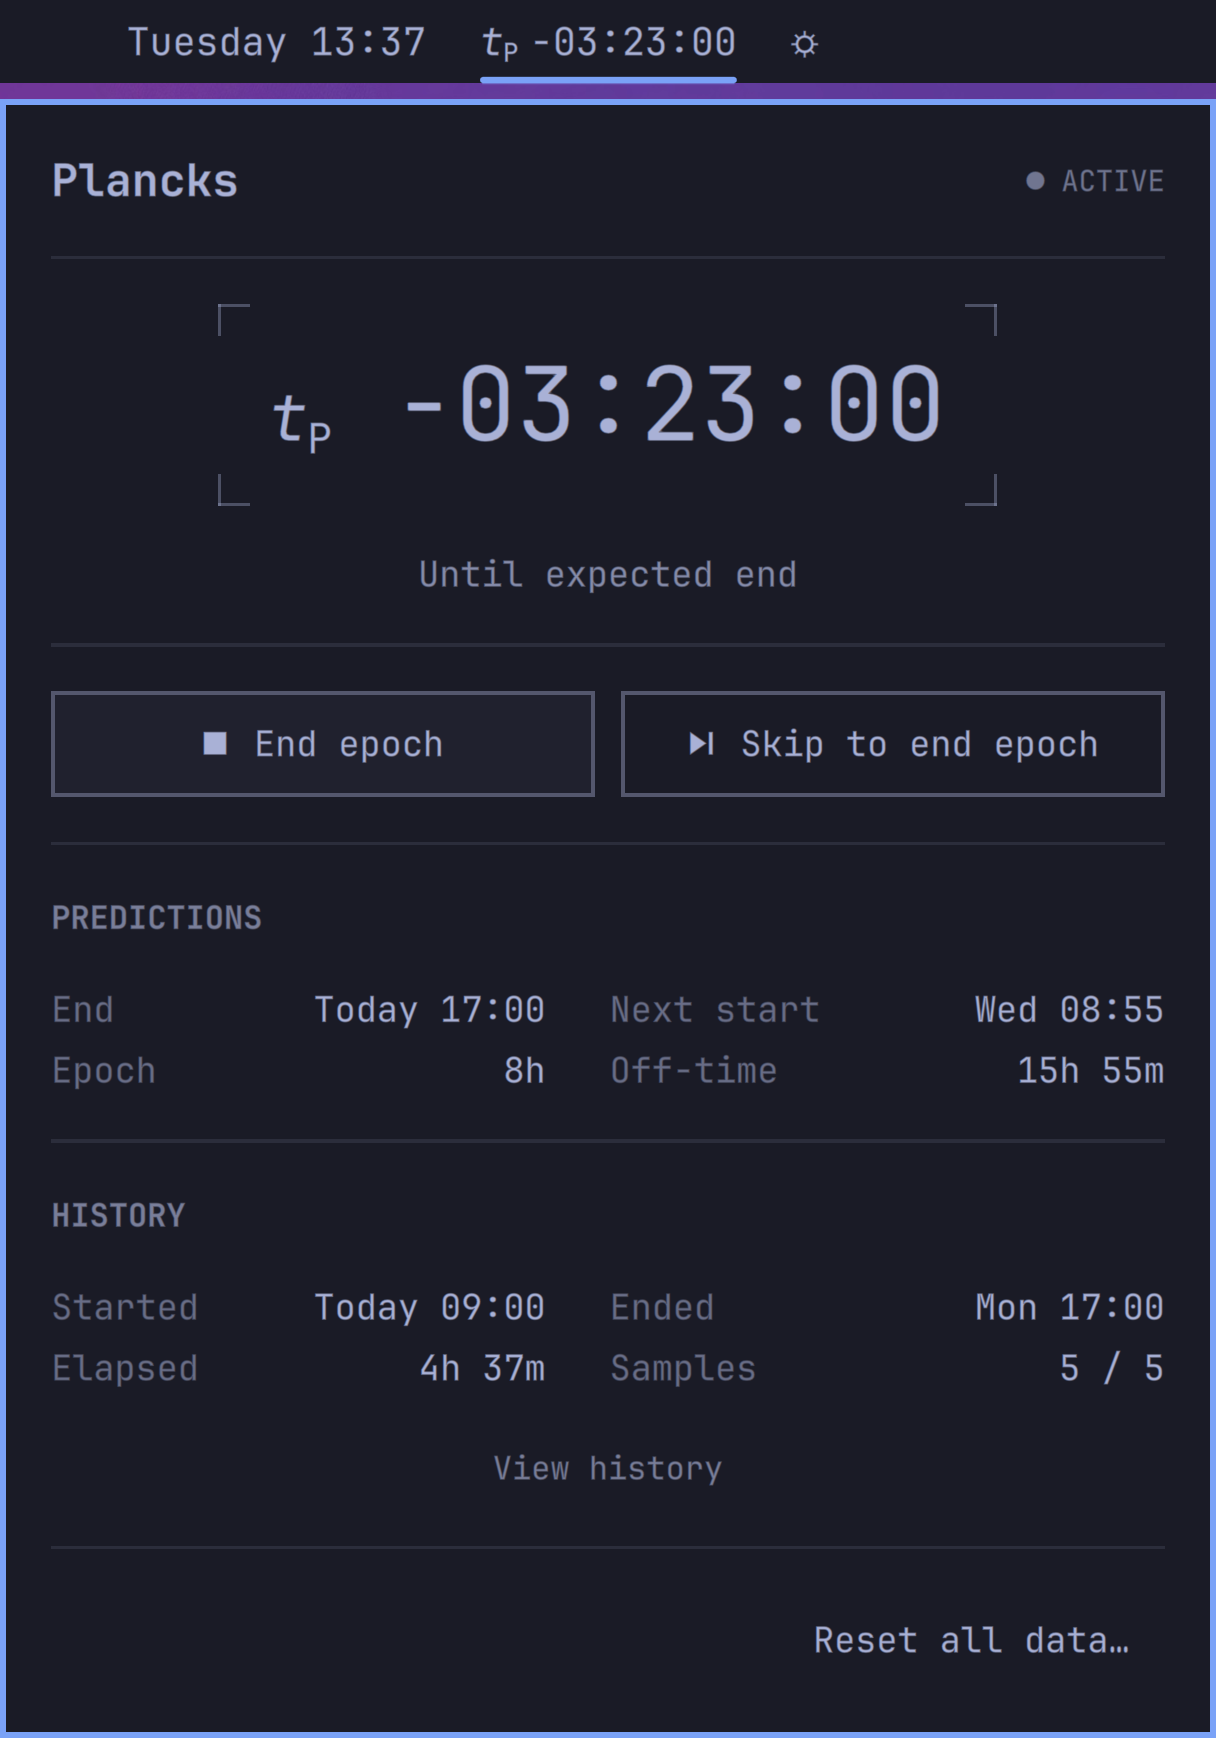
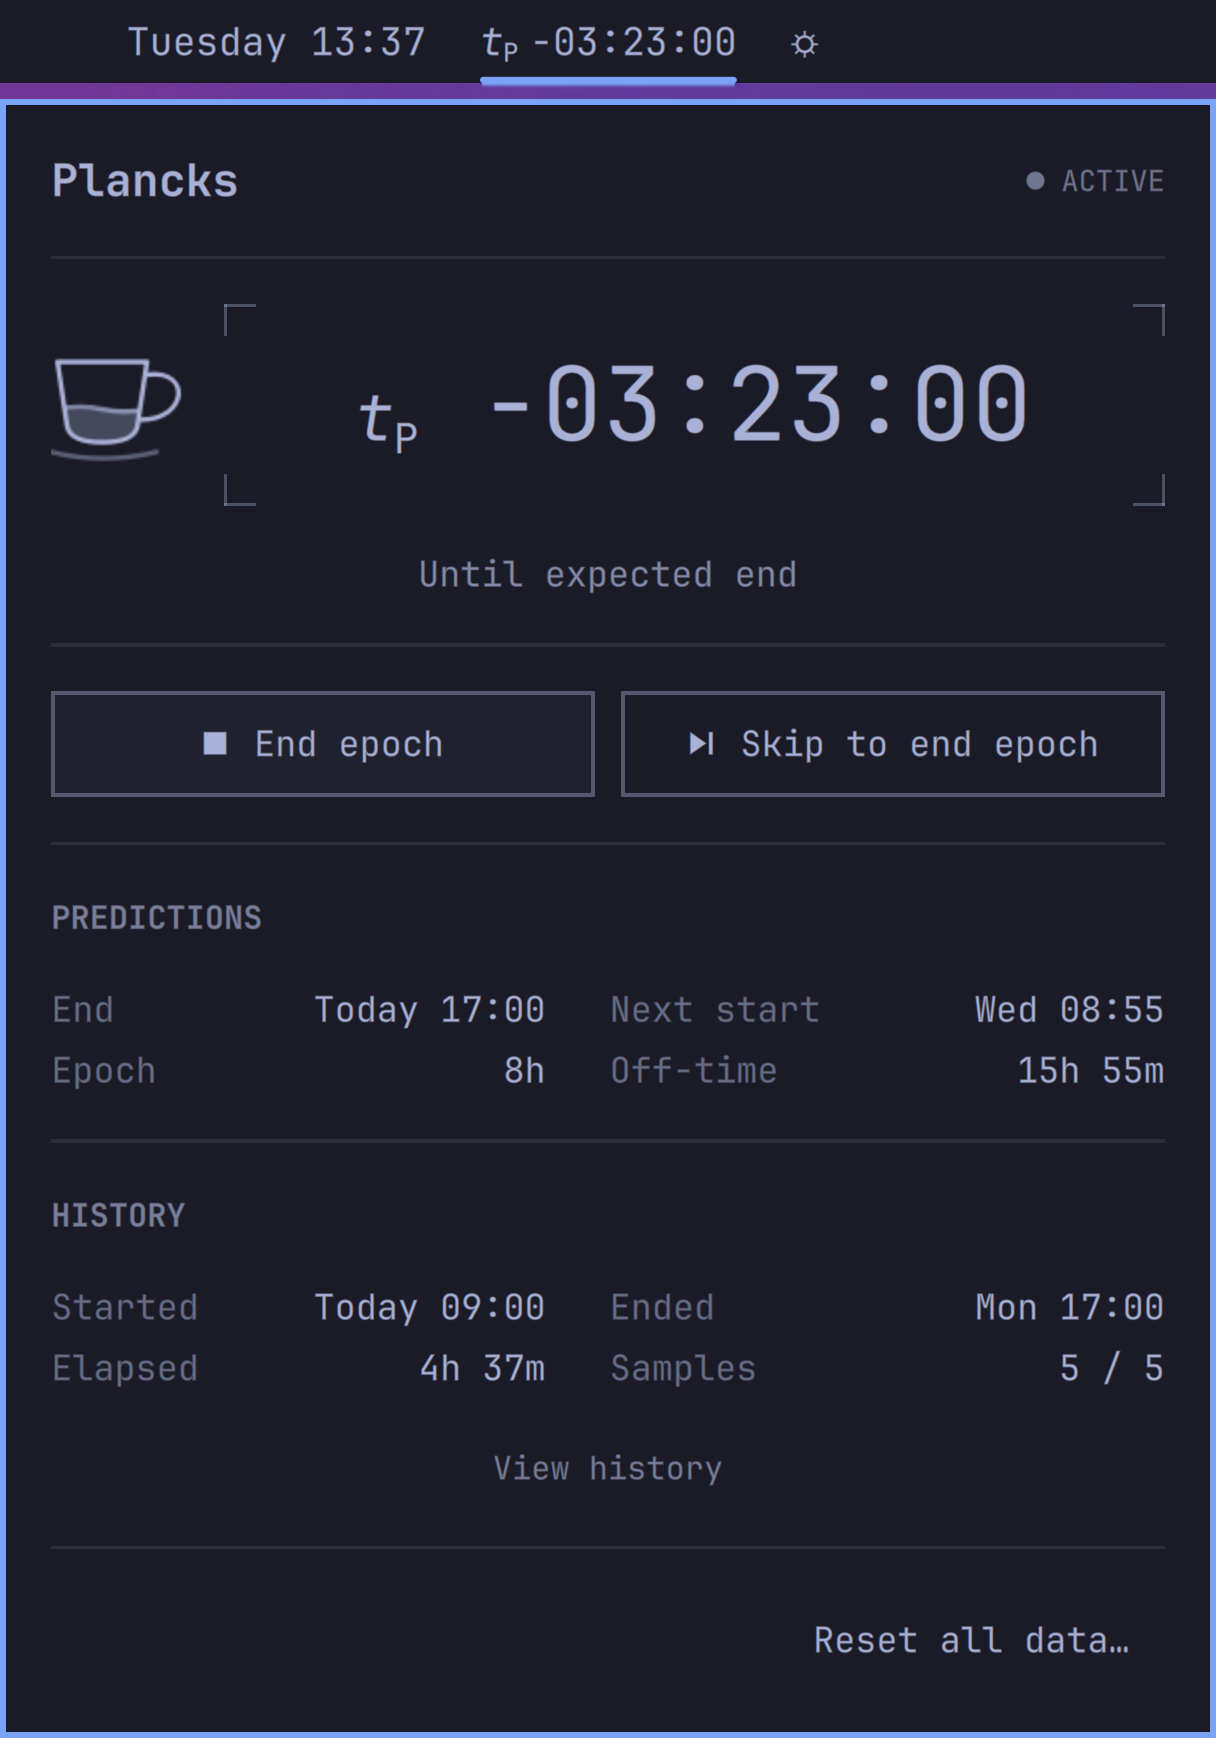
add dynamic cup next to panel timer

diff --git a/EpochPanel.qml b/EpochPanel.qml
@@ -224,11 +224,15 @@ Panel {
             visible: !root.confirmingReset && !root.showingHistory
             Item {
               width: parent.width
-              height: timerText.implicitHeight + Style.space(20)
+              height: Math.max(coffee.height, timerText.implicitHeight + Style.space(20))
+              Accessible.role: Accessible.StaticText
+              Accessible.name: "Plancks. " + root.epoch.timer + ". " + root.epoch.status
               Item {
                 id: timerFrame
-                anchors.centerIn: parent
-                width: Math.min(parent.width, timerText.implicitWidth + Style.space(32))
+                // Allow for the drawing's inset, with about 16 px after the handle.
+                readonly property real leftInset: coffee.width - Style.space(4)
+                x: leftInset
+                width: Math.max(0, parent.width - leftInset)
                 height: parent.height
                 Repeater {
                   model: 4
@@ -257,11 +261,135 @@ Panel {
                   }
                 }
               }
+              Item {
+                id: coffee
+                objectName: "plancks_coffee"
+                width: Style.space(58)
+                height: Style.space(54)
+                anchors.left: parent.left
+                anchors.leftMargin: -Style.space(5)
+                anchors.verticalCenter: parent.verticalCenter
+                anchors.verticalCenterOffset: -Style.space(3)
+                opacity: timerText.opacity
+                function seconds(value) {
+                  var parts = String(value).replace(/^[+−-]/, "").split(":")
+                  if (parts.length !== 3 || parts.some(function(p) { return !/^\d+$/.test(p) })) return NaN
+                  return Number(parts[0]) * 3600 + Number(parts[1]) * 60 + Number(parts[2])
+                }
+                readonly property real elapsedSeconds: seconds(root.epoch.elapsed)
+                readonly property real timerSeconds: seconds(timerText.timer)
+                readonly property bool predicted: (root.epoch.phase === "active"
+                  ? root.epoch.predictedEndUtcMs : root.epoch.predictedStartUtcMs) !== null
+                  && isFinite(timerSeconds) && isFinite(elapsedSeconds)
+                readonly property real remainingSeconds: timerText.countingDown ? timerSeconds : -timerSeconds
+                // Derive the anchored duration from elapsed + remaining, rather
+                // than a learned average that may change during this interval.
+                readonly property real durationSeconds: Math.max(1, elapsedSeconds + remainingSeconds)
+                readonly property real remainingFraction: Math.max(0, Math.min(1, remainingSeconds / durationSeconds))
+                // Epochs consume the cup; off-time replenishes it.
+                readonly property real fill: predicted
+                  ? root.epoch.phase === "active" ? remainingFraction : 1 - remainingFraction
+                  : 0
+                readonly property bool overtime: predicted && remainingSeconds < 0
+                readonly property real spill: overtime ? Math.min(1, -remainingSeconds / Math.max(60, durationSeconds * 0.1)) : 0
+                readonly property bool learning: !predicted && isFinite(timerSeconds)
+                property real motion: 0
+                onFillChanged: cupDrawing.requestPaint()
+                onSpillChanged: cupDrawing.requestPaint()
+                onLearningChanged: cupDrawing.requestPaint()
+                onOvertimeChanged: cupDrawing.requestPaint()
+                onMotionChanged: cupDrawing.requestPaint()
+                Timer {
+                  interval: 100
+                  repeat: true
+                  running: root.opened && !root.showingHistory && !root.confirmingReset && (coffee.learning || coffee.overtime)
+                  onTriggered: coffee.motion = (coffee.motion + 0.035) % 1
+                }
+                Canvas {
+                  id: cupDrawing
+                  anchors.fill: parent
+                  onAvailableChanged: if (available) requestPaint()
+                  Connections {
+                    target: root
+                    function onForegroundChanged() { cupDrawing.requestPaint() }
+                  }
+                  onPaint: {
+                    var ctx = getContext("2d")
+                    ctx.reset()
+                    ctx.clearRect(0, 0, width, height)
+                    ctx.scale(width / 58, height / 54)
+                    ctx.strokeStyle = root.foreground.toString()
+                    ctx.fillStyle = root.foreground.toString()
+                    ctx.lineWidth = 1.5
+                    ctx.lineCap = "round"
+                    ctx.lineJoin = "round"
+                    function bowl() {
+                      ctx.beginPath()
+                      ctx.moveTo(7, 16)
+                      ctx.lineTo(35, 16)
+                      ctx.lineTo(32, 36)
+                      ctx.quadraticCurveTo(31, 41, 21, 41)
+                      ctx.quadraticCurveTo(11, 41, 10, 36)
+                      ctx.closePath()
+                    }
+                    // Clip the liquid to the cup's curved interior.
+                    if (coffee.fill > 0) {
+                      ctx.save()
+                      bowl()
+                      ctx.clip()
+                      var surface = 40 - coffee.fill * 22
+                      ctx.globalAlpha = 0.3
+                      ctx.fillRect(7, surface, 28, 26)
+                      ctx.globalAlpha = 0.7
+                      ctx.beginPath()
+                      ctx.moveTo(7, surface)
+                      ctx.quadraticCurveTo(14, surface - 1.5, 21, surface)
+                      ctx.quadraticCurveTo(28, surface + 1.5, 35, surface)
+                      ctx.stroke()
+                      ctx.restore()
+                    }
+                    bowl()
+                    ctx.stroke()
+                    ctx.beginPath()
+                    ctx.moveTo(35, 20)
+                    ctx.bezierCurveTo(49, 18, 48, 34, 33, 34)
+                    ctx.stroke()
+                    ctx.globalAlpha = 0.45
+                    ctx.beginPath()
+                    ctx.moveTo(5, 44)
+                    ctx.quadraticCurveTo(21, 48, 38, 44)
+                    ctx.stroke()
+                    if (coffee.overtime) {
+                      ctx.globalAlpha = 0.3
+                      ctx.beginPath()
+                      ctx.ellipse(26, 50, 7 + coffee.spill * 17, 1.5 + coffee.spill * 1.5, 0, 0, Math.PI * 2)
+                      ctx.fill()
+                      // A quiet drip makes even the first seconds past zero visible.
+                      ctx.globalAlpha = 0.6 * Math.sin(coffee.motion * Math.PI)
+                      ctx.beginPath()
+                      ctx.ellipse(39, 37 + coffee.motion * 11, 1, 1.8, 0, 0, Math.PI * 2)
+                      ctx.fill()
+                    } else if (coffee.learning) {
+                      ctx.globalAlpha = 0.25
+                      for (var i = 0; i < 2; ++i) {
+                        var drift = Math.sin((coffee.motion + i * 0.4) * Math.PI * 2) * 2
+                        var x = 16 + i * 10
+                        ctx.beginPath()
+                        ctx.moveTo(x, 11)
+                        ctx.bezierCurveTo(x - 3 + drift, 8, x + 3 + drift, 6, x, 3)
+                        ctx.stroke()
+                      }
+                    }
+                  }
+                }
+              }
               Text {
                 id: timerText
-                anchors.centerIn: parent
+                anchors.centerIn: timerFrame
+                readonly property string timer: root.epoch.timer || "--:--:--"
+                readonly property bool countingDown: /^[−-]/.test(timer)
                 textFormat: Text.RichText
-                text: "<span style=\"font-size: " + Style.space(20) + "px;\"><i>t</i><sub>P</sub></span> " + (root.epoch.timer || "--:--:--")
+                text: "<span style=\"font-size: " + Style.space(20) + "px;\"><i>t</i><sub>P</sub></span> " + timer
                 color: root.foreground
                 opacity: root.epoch.phase !== "active" && EpochController.error === "" ? 0.45 : 1
                 Behavior on opacity {
@@ -269,6 +397,7 @@ Panel {
                 }
                 font.family: Style.font.family
                 font.pixelSize: Style.space(32)
+                scale: Math.min(1, Math.max(0, timerFrame.width - Style.space(32)) / implicitWidth)
               }
             }
             Text {

diff --git a/tests/smoke_qml.py b/tests/smoke_qml.py
@@ -52,6 +52,37 @@ ShellRoot {
     if (!condition) { console.error("SMOKE_FAIL " + message); Qt.quit(); }
     return condition
   }
+  function checkCoffeeRefill(cup) {
+    var state = Plancks.EpochController.state
+    var saved = {phase: state.phase, timer: state.timer, elapsed: state.elapsed,
+                 predictedStartUtcMs: state.predictedStartUtcMs, predictedEndUtcMs: state.predictedEndUtcMs}
+    try {
+      state.phase = "off"
+      state.predictedStartUtcMs = 1
+      state.timer = "−01:00:00"
+      state.elapsed = "00:00:00"
+      if (!check(cup.predicted && cup.fill === 0, "off-time cup starts empty")) return false
+      state.timer = "−00:45:00"
+      state.elapsed = "00:15:00"
+      if (!check(cup.fill === 0.25, "off-time cup fills one quarter")) return false
+      state.timer = "−00:15:00"
+      state.elapsed = "00:45:00"
+      if (!check(cup.fill === 0.75, "off-time cup fills three quarters")) return false
+      state.timer = "+00:00:00"
+      state.elapsed = "01:00:00"
+      if (!check(cup.fill === 1 && !cup.overtime && cup.spill === 0, "off-time cup full at zero")) return false
+      state.timer = "+00:05:00"
+      state.elapsed = "01:05:00"
+      if (!check(cup.fill === 1 && cup.overtime && cup.spill > 0, "off-time cup stays full and overflows")) return false
+      state.phase = "active"
+      state.predictedEndUtcMs = 1
+      state.timer = "−00:45:00"
+      state.elapsed = "00:15:00"
+      return check(cup.fill === 0.75 && !cup.overtime, "active cup consumes the same fraction")
+    } finally {
+      for (var key in saved) state[key] = saved[key]
+    }
+  }
   PanelWindow {
     visible: test.preview
     implicitWidth: 280
@@ -87,11 +118,24 @@ ShellRoot {
         test.step = 2
       } else if (test.step === 2) {
         if (widget.epoch.timer.indexOf("+") !== 0) return
+        if (test.preview) {
+          var cup = resetTest.findChild(widget, "plancks_coffee")
+          if (widget.epoch.timer === "+00:00:00") return
+          if (!test.check(cup && cup.predicted && cup.overtime && cup.fill === 0 && cup.spill > 0,
+                          "coffee cup empties and spills past the prediction")) return
+        }
         if (!test.check(widget.epoch.indicator === "●", "overrun keeps active phase")) return
         test.toggleViaIpc()
         test.step = 3
       } else if (test.step === 3) {
         if (!test.check(widget.epoch.phase === "off" && second.epoch.phase === "off", "shared end transition")) return
+        if (test.preview) {
+          var learningCup = resetTest.findChild(widget, "plancks_coffee")
+          if (!test.check(learningCup && learningCup.learning && !learningCup.predicted
+                          && learningCup.fill === 0 && learningCup.spill === 0,
+                          "learning cup shows no predicted fill or spill")) return
+          if (!test.checkCoffeeRefill(learningCup)) return
+        }
         if (!test.check(widget.epoch.workSampleCount === 1, "completed sample")) return
         second.bar = verticalBar
         if (!test.check(second.vertical && second.implicitHeight > 40, "vertical layout")) return

diff --git a/README.md b/README.md
@@ -23,6 +23,8 @@ The widget renders Planck-time notation as italic **t** with an upright subscrip
 
 The bar and panel timer use normal text for an active epoch and Omarchy's standard dimmed styling for off-time. The tooltip, accessible label, and panel name the phase explicitly.
 
+The main panel frames the timer with subtle corner brackets, with a small coffee cup aligned to the left outside the brackets. During an active epoch it empties toward the expected end; during off-time it fills toward the expected next start. Past zero, a bounded puddle grows with a gentle drip beneath the empty active cup or overflowing full off-time cup. While learning without a prediction, steam rises without a fill level. Animations run only while the timer panel is open.
+
 | Appearance | Example | Meaning |
 | --- | --- | --- |
 | Normal | `t_P −02:00:00` | Two hours until the current epoch is expected to end |
